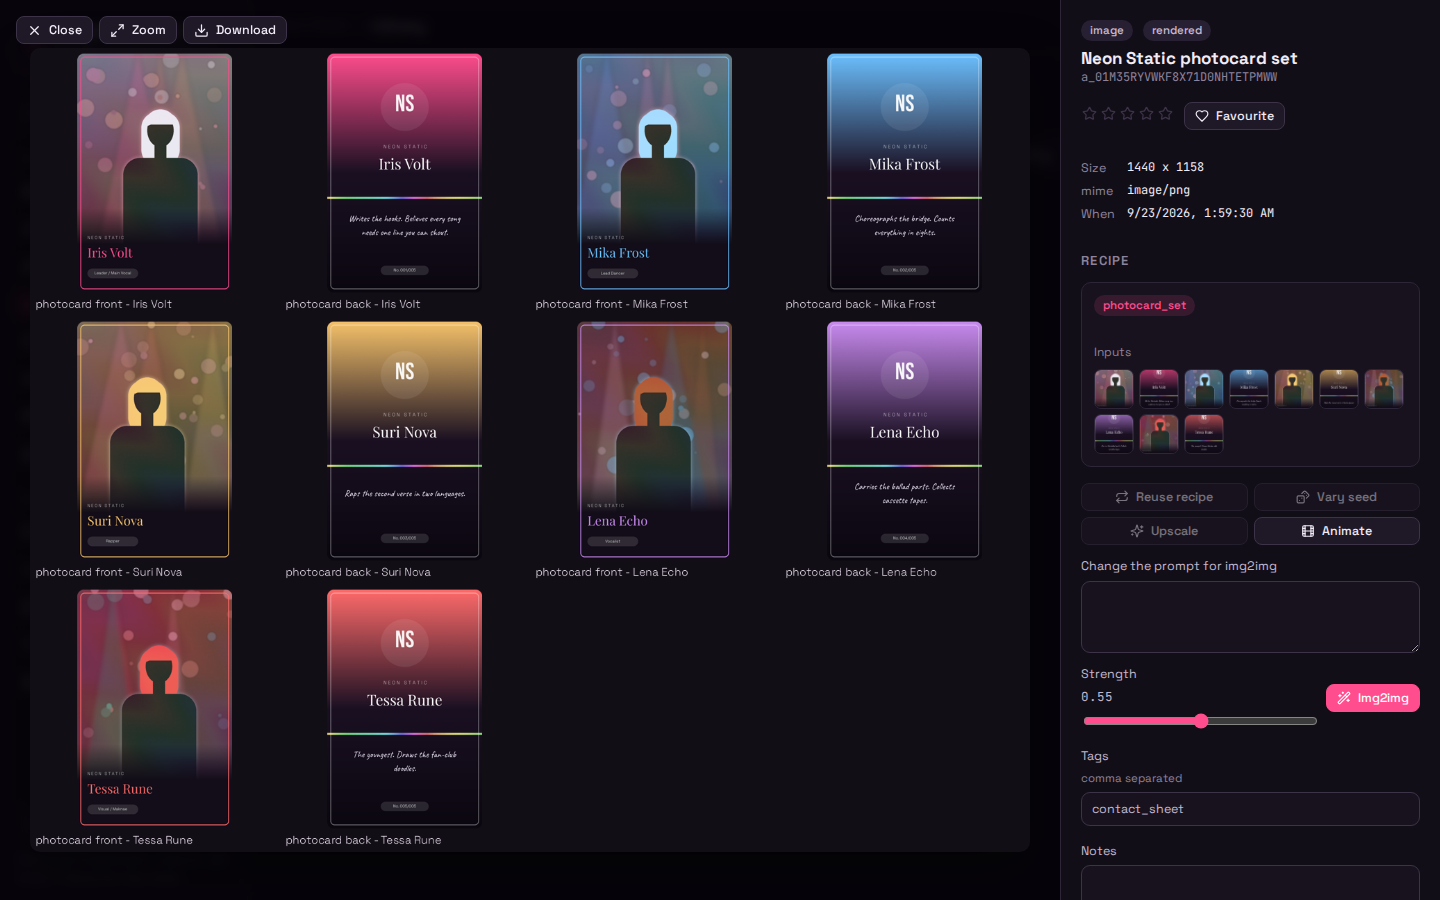
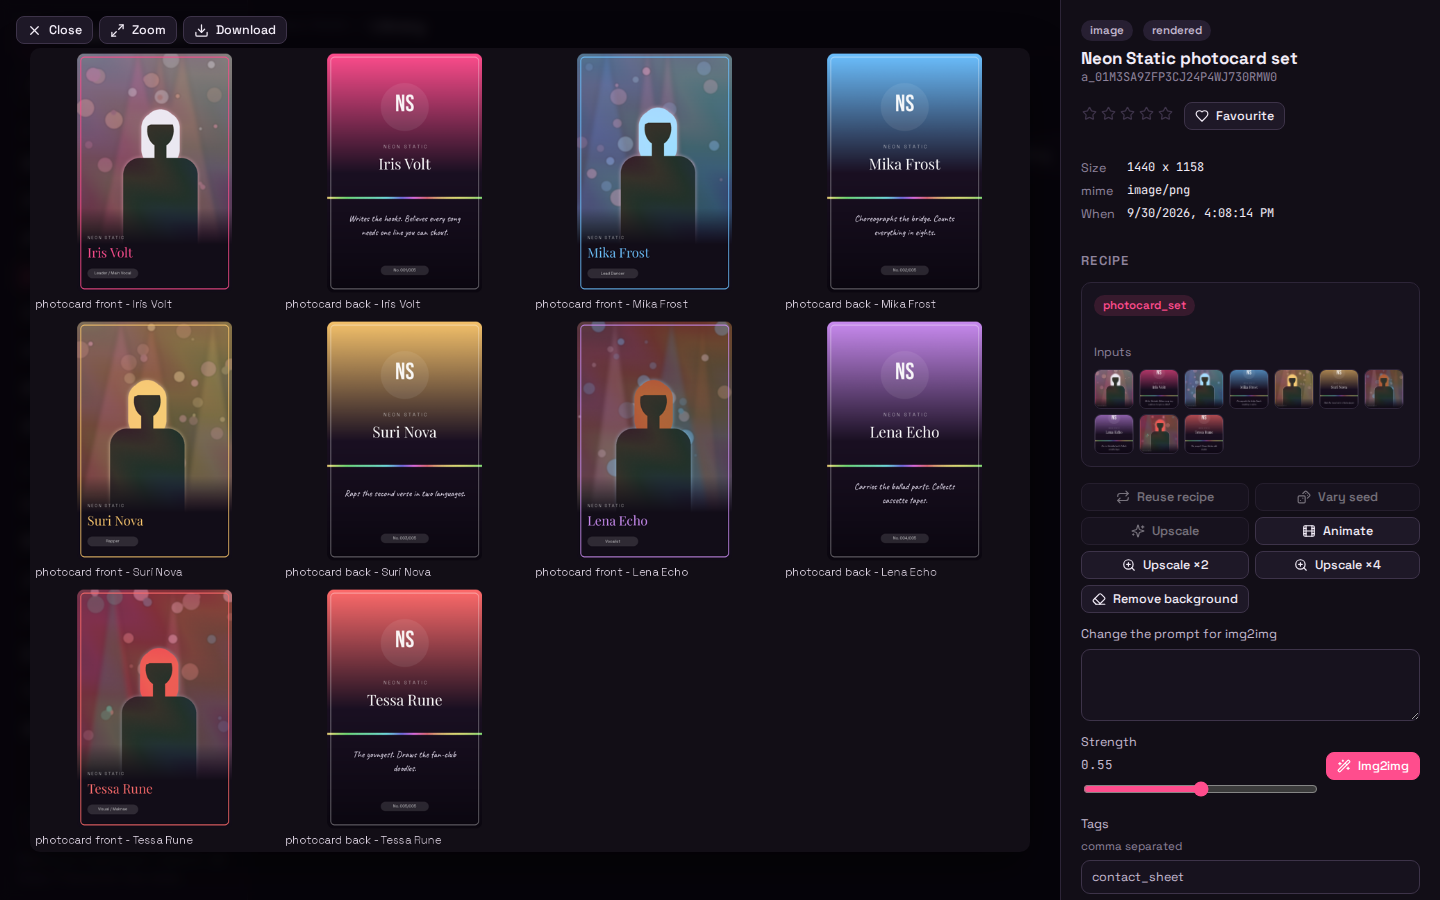
feat(ui): upscale x2, upscale x4 and remove background in the lightbox
Three buttons next to the existing edit actions, calling the edit route with
operation upscale (scale 2 or 4) and remove_background, with English and
Spanish labels. The library screenshot shows the new buttons.

Claude-Session: https://claude.ai/code/session_01BbPbzUmo3LxeL68b6hZJue

diff --git a/frontend/src/components/Lightbox.tsx b/frontend/src/components/Lightbox.tsx
@@ -1,5 +1,5 @@
 import { Fragment, useEffect, useState } from "react";
-import { ChevronLeft, ChevronRight, Dices, Download, Film, Heart, Maximize2, Minimize2, Repeat, Sparkles, Wand2, X } from "lucide-react";
+import { ChevronLeft, ChevronRight, Dices, Download, Eraser, Film, Heart, Maximize2, Minimize2, Repeat, Sparkles, Wand2, X, ZoomIn } from "lucide-react";
 import { api, fileUrl, type Asset, type Board } from "../api";
 import { useT } from "../i18n";
 import { Stars, useApp, useAsync } from "./ui";
@@ -167,6 +167,9 @@ export function Lightbox({ assetId, list, onClose, onNavigate }: {
               <button className="btn sm" disabled={!fromComfy || busy} onClick={() => run(t("varySeed"), () => api.edit(asset.id, { operation: "vary", count: 2 }))}><Dices size={14} /> {t("varySeed")}</button>
               <button className="btn sm" disabled={busy || recipe?.template !== "sdxl_txt2img"} onClick={() => run(t("hires"), () => api.edit(asset.id, { operation: "hires" }))}><Sparkles size={14} /> {t("hires")}</button>
               <button className="btn sm" disabled={busy} onClick={() => run(t("animate"), () => api.animate(asset.id, { frames: 14, fps: 7, motion: 127 }))}><Film size={14} /> {t("animate")}</button>
+              <button className="btn sm" disabled={busy} onClick={() => run(t("upscaleX2"), () => api.edit(asset.id, { operation: "upscale", scale: 2 }))}><ZoomIn size={14} /> {t("upscaleX2")}</button>
+              <button className="btn sm" disabled={busy} onClick={() => run(t("upscaleX4"), () => api.edit(asset.id, { operation: "upscale", scale: 4 }))}><ZoomIn size={14} /> {t("upscaleX4")}</button>
+              <button className="btn sm" disabled={busy} onClick={() => run(t("removeBackground"), () => api.edit(asset.id, { operation: "remove_background" }))}><Eraser size={14} /> {t("removeBackground")}</button>
             </div>
             <label className="field">{t("editPrompt")}
               <textarea value={editPrompt} onChange={(e) => setEditPrompt(e.target.value)} rows={3} />

diff --git a/frontend/src/i18n.ts b/frontend/src/i18n.ts
@@ -168,6 +168,9 @@ const en = {
   varySeed: "Vary seed",
   img2img: "Img2img",
   hires: "Upscale",
+  upscaleX2: "Upscale ×2",
+  upscaleX4: "Upscale ×4",
+  removeBackground: "Remove background",
   animate: "Animate",
   inputs: "Inputs",
   tags: "Tags",
@@ -783,6 +786,9 @@ const es: Record<MessageKey, string> = {
   varySeed: "Variar semilla",
   img2img: "Img2img",
   hires: "Ampliar",
+  upscaleX2: "Ampliar ×2",
+  upscaleX4: "Ampliar ×4",
+  removeBackground: "Quitar fondo",
   animate: "Animar",
   inputs: "Entradas",
   tags: "Etiquetas",
